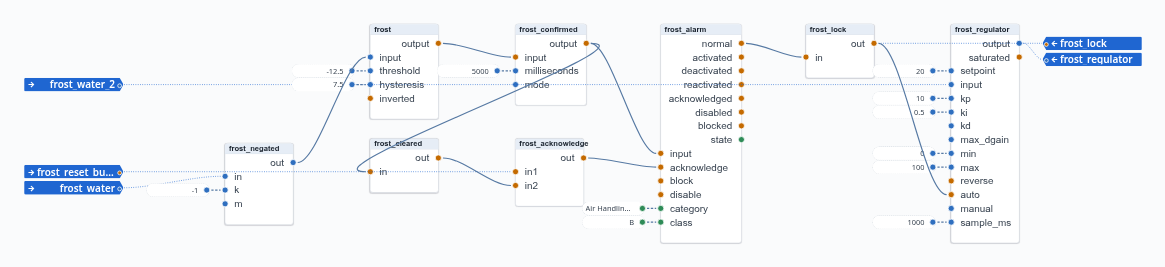
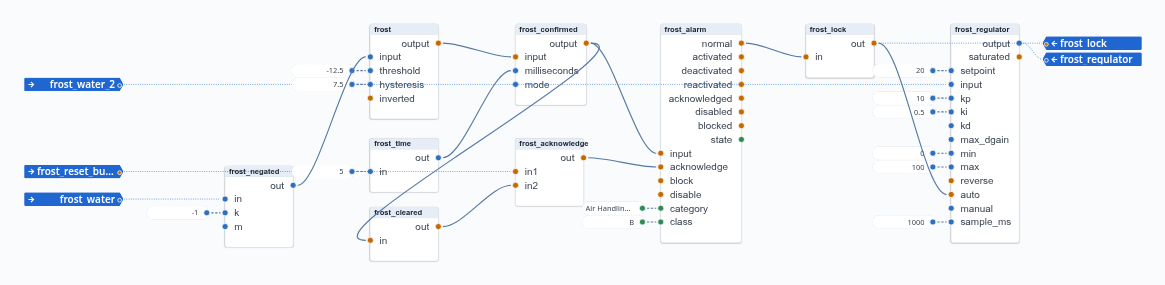
The AHU's times in units; a Delay's wait always ends at a timer expiry
The AHU's Extended operation takes 2 → extended_time (timing/Hours) and its
frost confirmation 5 → frost_time (timing/Seconds), the blocks around them moved
to make room.

process/Delay: a wait already over when the block computes (no delay, or a
milliseconds lowered below the time waited) ends at an expiry due at once,
queued behind the changes already queued, in every mode and not only at the
start. A milliseconds computed by a converter is then in place before the wait
can end, whatever the order of the blocks: frost_confirmed saw frost before
frost_time's 5000 and passed it at once (03 §3.4).

diff --git a/frontend/tests/manual/ahu.shot.ts b/frontend/tests/manual/ahu.shot.ts
@@ -61,14 +61,14 @@ const PARTS: [string, string[], string[]][] = [
     ["ahu-sensors", ["outdoor_air", "supply_air", "extract_air", "exhaust_air", "frost_water", "room_air"],
         ["outdoor_temperature", "supply_temperature", "extract_temperature", "exhaust_temperature",
             "frost_temperature", "room_temperature"]],
-    ["ahu-operation", ["workdays", "work_hours", "schedule", "extended", "extended_wait", "extended_timer", "running"], []],
+    ["ahu-operation", ["workdays", "work_hours", "schedule", "extended", "extended_time", "extended_wait", "extended_timer", "running"], []],
     ["ahu-seasons", ["heating_months", "september", "from_15th", "may", "to_15th", "late_september", "early_may",
         "half_months", "heating_season", "cooling_season", "any_season", "neither_season"], []],
     ["ahu-setpoint", ["supply_curve", "room_compensation", "supply_setpoint"], []],
     ["ahu-regulators", ["heating_regulator_on", "heating_regulator", "exchanger_regulator_on", "exchanger_regulator",
         "cooling_regulator_on", "cooling_regulator", "exchanger_manual", "heating_demand", "heating_valve_volts",
         "exchanger_volts", "cooling_valve_volts"], ["heating_valve", "heat_exchanger", "cooling_valve"]],
-    ["ahu-frost", ["frost_negated", "frost", "frost_confirmed", "frost_cleared", "frost_acknowledge", "frost_alarm",
+    ["ahu-frost", ["frost_negated", "frost", "frost_time", "frost_confirmed", "frost_cleared", "frost_acknowledge", "frost_alarm",
         "frost_lock", "frost_regulator"], []],
     ["ahu-fans", ["power_up_time", "power_up", "may_run", "not_locked", "fans", "outputs_enabled"], []],
     ["ahu-pumps", ["exercise_day", "exercise_time", "exercise", "heating_needed", "heating_or_frost", "heating_pump",

diff --git a/emulators/colibri/tests/ahu.test.ts b/emulators/colibri/tests/ahu.test.ts
@@ -25,7 +25,7 @@ function graph(season: Season, running: boolean, extendedMs?: number): JsonObjec
         ['cooling_season', 'months', season === 'cooling' ? String(month) : other],
         ['exercise_time', 'range', '00:00-00:00'],
         ['power_up_time', 'in', 1],
-        ...(extendedMs !== undefined ? [['extended_wait', 'in_false', extendedMs] as [string, string, unknown]] : []),
+        ...(extendedMs !== undefined ? [['extended_time', 'in', extendedMs / 3600000] as [string, string, unknown]] : []),
     ]);
 }
 

diff --git a/tests/test_process_more.c b/tests/test_process_more.c
@@ -508,34 +508,43 @@ static void test_delay(void)
 	set_bool_at(5000, "input", false);
 	set_at(5100, "milliseconds", linkable_from_f64(300));
 	CHECK(next_due() == 5300);
-	set_at(5200, "milliseconds", linkable_from_f64(150)); /* already lasted that long */
-	CHECK(!flag("output") && next_due() == UINT64_MAX);
+	/* Already lasted that long: at an expiry due at once, not in the compute. */
+	set_at(5200, "milliseconds", linkable_from_f64(150));
+	CHECK(flag("output") && next_due() == 5200);
+	CHECK(fire(5200) == 1 && !flag("output") && next_due() == UINT64_MAX);
 	teardown();
 }
 
-/* milliseconds <= 0, NaN or infinite: no delay (its resting value 0). */
+/* milliseconds <= 0, NaN or infinite: no delay (its resting value 0), the
+ * change taking effect at an expiry due at once, after the changes queued. */
 static void test_delay_none(void)
 {
 	setup("process/Delay");
 	start_at(0);
 	CHECK(!flag("output"));
 	set_bool_at(10, "input", true);
-	CHECK(flag("output") && next_due() == UINT64_MAX);
+	CHECK(!flag("output") && next_due() == 10);
+	CHECK(fire(10) == 1 && flag("output") && next_due() == UINT64_MAX);
 	set_at(20, "milliseconds", linkable_from_f64(-5));
 	set_bool_at(30, "input", false);
-	CHECK(!flag("output"));
+	CHECK(fire(30) == 1 && !flag("output"));
 	set_at(40, "milliseconds", linkable_from_f64(NAN));
 	set_bool_at(50, "input", true);
-	CHECK(flag("output"));
+	CHECK(fire(50) == 1 && flag("output"));
+	/* A milliseconds delivered before that expiry applies to the change. */
+	set_bool_at(55, "input", false);
+	set_at(55, "milliseconds", linkable_from_f64(20));
+	CHECK(flag("output") && next_due() == 75);
+	CHECK(fire(75) == 1 && !flag("output"));
 	/* Rounded to whole milliseconds. */
-	set_at(60, "milliseconds", linkable_from_f64(99.6));
-	set_bool_at(70, "input", false);
-	CHECK(next_due() == 170);
-	/* A stop cancels the wait; the start takes input at once. */
-	stop_at(80);
+	set_at(80, "milliseconds", linkable_from_f64(99.6));
+	set_bool_at(90, "input", true);
+	CHECK(next_due() == 190);
+	/* A stop cancels the wait; the start (mode 0) takes input at once. */
+	stop_at(100);
 	CHECK(next_due() == UINT64_MAX);
-	start_at(90);
-	CHECK(!flag("output") && next_due() == UINT64_MAX);
+	start_at(110);
+	CHECK(flag("output") && next_due() == UINT64_MAX);
 	teardown();
 }
 

diff --git a/src/blocktypes/process_more.c b/src/blocktypes/process_more.c
@@ -342,14 +342,14 @@ static int delay_mode(double mode)
 /*
  * process/Delay (03 §3.4): START in mode 0 sets output = input with nothing
  * pending; in modes 1 and 2 output starts false and input counts as a change
- * from false at the start, whose wait, if already due, ends at the first timer
- * expiry rather than in the START compute: a milliseconds computed by other
- * blocks arrives only after it. Afterwards a change of to_bool(input) records its
+ * from false at the start. Afterwards a change of to_bool(input) records its
  * time; while input differs from output a change is pending. An edge mode
- * delays takes effect once milliseconds have passed since that time (at once
- * if they already have, also after a change of milliseconds or mode); the
- * other edge at once. Every compute returns the delay to the end of the
- * pending wait, or -1 (no timer) when nothing is pending.
+ * delays takes effect once milliseconds have passed since that time, always
+ * at a timer expiry: a wait already over when computed (milliseconds <= 0, or
+ * changed) ends at an expiry due at once, queued after the changes already
+ * queued, so a milliseconds that other blocks compute is in place first. The
+ * other edge takes effect at once. Every compute returns the delay to the end
+ * of the pending wait, or -1 (no timer) when nothing is pending.
  */
 static int64_t delay(BlockCtx *ctx)
 {
@@ -372,12 +372,12 @@ static int64_t delay(BlockCtx *ctx)
 	} else if (in != out) {
 		double ms = linkable_to_f64(&ctx->inputs[DELAY_MILLISECONDS]);
 		uint64_t due = d->changed_ms + delay_ms(ms);
-		if (ctx->reason == REASON_START && ctx->now_ms >= due)
-			next = 0; /* after the values sent at the start, milliseconds' among them */
-		else if (ctx->now_ms >= due)
+		if (ctx->now_ms < due)
+			next = (int64_t)(due - ctx->now_ms);
+		else if (ctx->reason == REASON_TIMER)
 			out = in;
 		else
-			next = (int64_t)(due - ctx->now_ms);
+			next = 0; /* after the changes already queued, milliseconds' among them */
 	}
 	block_ctx_set_output(ctx, 0, linkable_from_bool(out));
 	return next;

diff --git a/specifications/03-block-types.md b/specifications/03-block-types.md
@@ -198,9 +198,10 @@ Decided with the user 2026-10-15; implemented in plan task 51 (`src/blocktypes/p
 | `output` | output | bool | `input`, once it has been stable for `milliseconds` |
 
 - **A change of `input`** (`to_bool`) records the time and arms the timer for `milliseconds`; when it expires with `input` unchanged since, `output = input`. If `input` returns to `output`'s value before then, nothing is pending (the timer is cancelled), which is what the restarted wait would give.
-- **`milliseconds`** is rounded to whole milliseconds, at most `2^53`; `<= 0`, NaN or infinite means **no delay**: `output` follows `input` at once (its resting value `0`, §1). A change of `milliseconds` while a change of `input` is pending applies to that wait, counted from the change of `input`: if it has already lasted that long, `output` takes `input` at once.
+- **`milliseconds`** is rounded to whole milliseconds, at most `2^53`; `<= 0`, NaN or infinite means **no delay** (its resting value `0`, §1). A change of `milliseconds` while a change of `input` is pending applies to that wait, counted from the change of `input`.
+- **A delayed change always takes effect at a timer expiry** (decided 2026-10-28): a wait that is already over when the block computes — no delay, or a `milliseconds` changed to less than the wait has lasted — makes the compute return `0`, and `output` takes `input` at that expiry, in the same engine millisecond. The expiry is queued behind the changes already queued (§2), so a `milliseconds` computed by other blocks and delivered with the change, such as `10 → timing/Seconds` (§3.12) at the start, is in place before the wait can end, whatever the order of the blocks. Without that, a `Delay` would see `milliseconds` still `0` and pass the change at once.
 - **`mode`** is rounded to the nearest whole number (C `round`); `1` delays only the rising edge (false → true), `2` only the falling edge, and any other value — the resting `0`, NaN, ±Infinity — both. An edge the mode does not delay makes `output = input` at once, which also ends a wait for the other edge (`input` is back at `output`'s value). A change of `mode` while a change of `input` is pending applies to it: if the new mode does not delay that edge, `output` takes `input` at once; otherwise the wait goes on, counted from the change of `input`.
-- **Start**: in mode `0`, `output = input` at once, with nothing pending (decided with the user 2026-10-15); only changes after the start are delayed. In modes `1` and `2` (decided 2026-10-28), `output` starts `false` and `input` counts as a change from `false` at the start: in mode `1` a `true` input waits the full `milliseconds` — an alarm condition true at the start from resting values is not raised at once —, in mode `2` it passes at once. A wait that is already over in the `START` compute (`milliseconds` `<= 0`) does not end there: the `START` compute returns `0`, and the wait ends at that expiry, which is queued after the values the blocks sent at the start (§2). So a `milliseconds` that other blocks compute, such as `timing/Seconds` (§3.12), is in place before the wait can end: `10 → Seconds → milliseconds` with a fixed `true` on `input` waits 10 s. `mode` itself should be a fixed value: one computed by other blocks arrives after the `START` compute, which then runs in mode `0`. `STOP` changes nothing; nothing pending survives a stop.
+- **Start**: in mode `0`, `output = input` at once, with nothing pending (decided with the user 2026-10-15); only changes after the start are delayed. In modes `1` and `2` (decided 2026-10-28), `output` starts `false` and `input` counts as a change from `false` at the start: in mode `1` a `true` input waits the full `milliseconds` — an alarm condition true at the start from resting values is not raised at once —, in mode `2` it passes at once. By the rule above, `10 → Seconds → milliseconds` with a fixed `true` on `input` waits 10 s, although `milliseconds` is still `0` in the `START` compute. `mode` itself should be a fixed value: one computed by other blocks arrives after the `START` compute, which then runs in mode `0`. `STOP` changes nothing; nothing pending survives a stop.
 - **Late timers**: a timer that fires late applies the change then; it is never applied early.
 
 ### 3.5 `process/Trigger` — arm and fire

diff --git a/docs/manual/ahu/index.md b/docs/manual/ahu/index.md
@@ -76,8 +76,8 @@ schedule. It takes three blocks:
   at the rising edge of `arm`.
 - `extended_timer` (`process/Delay`) passes `extended`'s output on after `milliseconds`. When it
   turns true, two hours after the press, it arms `extended`, which turns off.
-- `extended_wait` (`process/SelectIn`) is the timer's duration: 7 200 000 ms (two hours) while the
-  timer's output is false, and 0 once it is true. The timer then follows `extended` back to false
+- `extended_wait` (`process/SelectIn`) is the timer's duration: two hours (`2 → extended_time`,
+  a `timing/Hours`) while the timer's output is false, and 0 once it is true. The timer then follows `extended` back to false
   **at once**, so `arm` falls, and the next press starts a fresh two hours.
 
 Without `extended_wait`, the timer would hold its true for another two hours after `extended`
@@ -176,8 +176,8 @@ The blocks:
 - **Detecting frost.** `frost` is a `process/Hysteresis` on the negated temperature
   (`frost_negated`, −1 × T). It is on below 5 °C and off again only above 20 °C: threshold −12.5,
   hysteresis 7.5, on above −5 and off below −20. One block thus gives both limits of the rule.
-- **Confirming it.** `frost_confirmed` (`process/Delay`, 5000 ms) passes frost on only when it
-  lasts 5 seconds. A sensor reads 0 °C until its first value arrives, and that alone must not stop
+- **Confirming it.** `frost_confirmed` (`process/Delay`, its time `5 → frost_time`, a
+  `timing/Seconds`) passes frost on only when it lasts 5 seconds. A sensor reads 0 °C until its first value arrives, and that alone must not stop
   the unit.
 - **The alarm.** `frost_alarm` (`process/Alarm`, class B: attend to during working hours) follows
   `frost_confirmed`. It goes *Activated*, then *Deactivated* when the frost is over, and *Normal*
